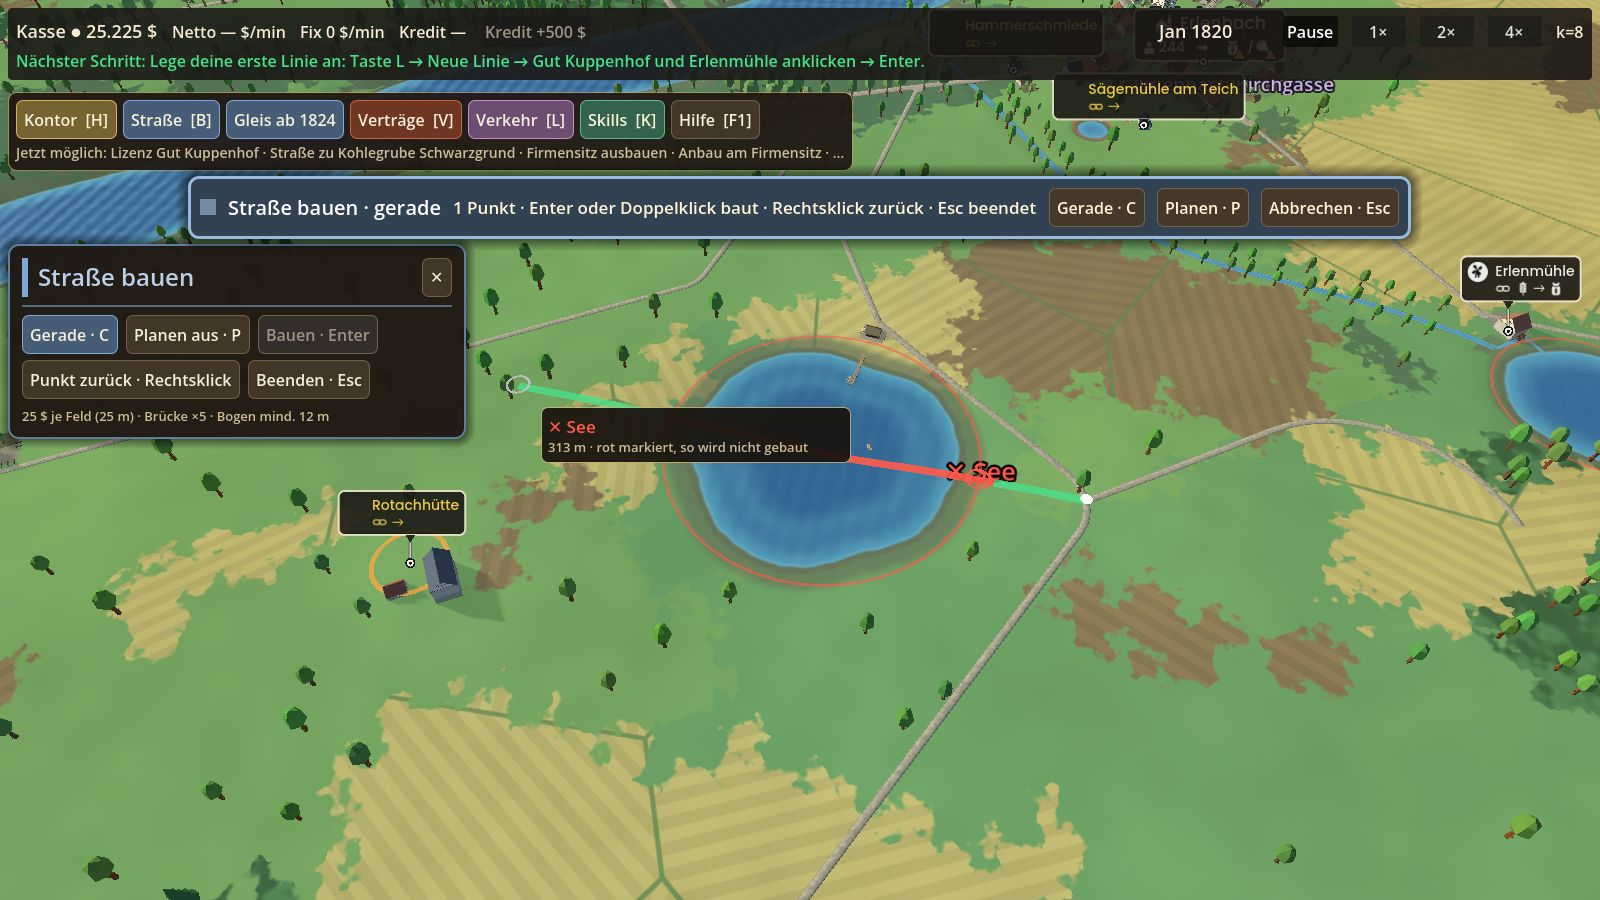
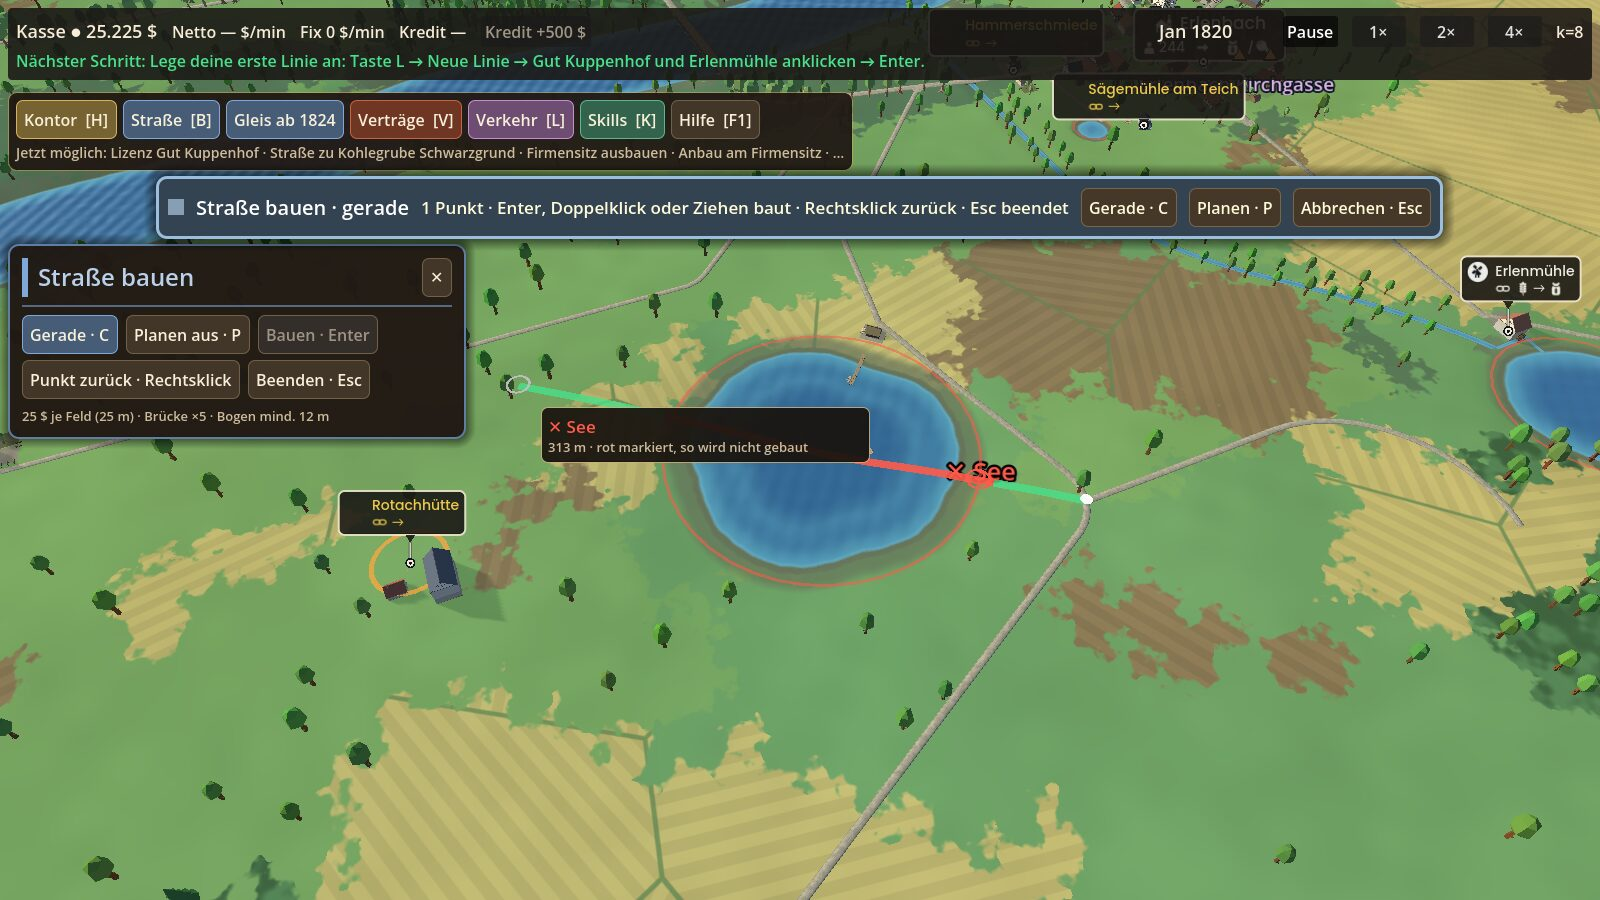
Demo Teil 5 (Tests, Doku, Bilder): Befund-Skript misst das Ziehen, Anleitung und Entscheidungslog
demo_bau_befund.gd: N13 (Ziehen mit der echten Maus: Drücken, 6 Bewegungen,
Loslassen), N13b (kurzer Zug bleibt Punkt-Klick), N13c (Ziehen im Kurvenmodus
= ein tangentialer Bogen), N14 (eine Querung = eine Kreuzung), N12 neu
(Kamera im Baumodus: links zieht, Mitte schiebt, rechts dreht).
demo_ui_test: Bild 31_bau_ziehen mitten im Zug.

Gemessen (xvfb, llvmpipe): Loslassen baut 170 m für 175 $ = Angebot,
Abweichung zur Vorschau 1,00 m; Vorschau mitten im Zug 81 m von 170 m;
Kurvenmodus Radius 131 m, Knick 3,5°, Anschluss 1,7°, Abweichung 0,26 m;
N8 meldet 1 statt 3 Kreuzungen (136 m über das Netz statt 366 m);
26 Knoten im Fangkreis, 1 verbunden; linke Taste schiebt 0,0 m, mittlere 121 m.

Doku: DEMO_ANLEITUNG.md (zwei Wege zum Abschnitt, Kamera im Baumodus),
DEMO_STRASSENBAU_BEFUND.md (neuer Abschnitt „Stand 13.11.“, offene Punkte
nachgezogen), entscheidungslog.md (7 Entscheidungen Teil 5).

Claude-Session: https://claude.ai/code/session_019tr1tmM5HeSpn9hDuFUraU

Changed region(s): [[0.0938, 0.1867, 0.9062, 0.28], [0.5312, 0.4356, 0.5625, 0.5289]]

diff --git a/sprints/s8/umsetzung/DEMO_STRASSENBAU_BEFUND.md b/sprints/s8/umsetzung/DEMO_STRASSENBAU_BEFUND.md
@@ -1,5 +1,31 @@
 # Straßen- und Gleisbau in der Demo: Befund und Umbau
 
+## Stand 13.11. nach Teil 5 (Ziehen, eine Kreuzung je Querung)
+
+Zwei der offenen Punkte von unten sind erledigt. Gemessen wie zuvor über den echten Eingabeweg: `slice/tests/demo_bau_befund.gd`
+unter xvfb bewegt die Maus wirklich, hält die Taste gedrückt und lässt sie los; jede Zahl steht in einer Zeile `NACHHER N12`–`N14`
+dieses Laufs. Dazu headless in der Regression: `demo_ui_test` B10–B14, `demo_sim_test` T5, T5b, T5c.
+
+| Punkt | Stand | Gemessen (NACHHER) |
+|---|---|---|
+| **Ziehen mit gehaltener Maustaste** | **erledigt** | Drücken, 6 Bewegungen, Loslassen mit der echten Maus: Drücken allein ändert nichts (0 Punkte); mitten im Zug läuft die Vorschau mit („81 m · 100 $“ von 170 m), Banner „Ziehen · Loslassen baut“; Loslassen baut 170 m für 175 $ = Angebot, Abweichung zur Vorschau 1,00 m; das Werkzeug bleibt an (1 Punkt am Ende) (N13) |
+| Zug und Klick kommen sich nicht in die Quere | erledigt | Kurzer Zug über 4 px (Schwelle 6 px) bleibt ein Punkt-Klick: 1 Punkt gesetzt, 0 gebaut, Kasse unverändert (N13b) |
+| Ziehen im Kurvenmodus | **Entscheidung** | Ein Zug zieht genau ein Stück: den tangential anschließenden Bogen bis zum Loslasspunkt. Gemessen: Radius 131 m (Minimum 12 m), größter Knick zwischen zwei Punkten 3,5°, Anschlusswinkel am Startknoten 1,7°, gebaut 160 m für 175 $, Abweichung zur Vorschau 0,26 m. Mehrere Bögen in einem Stück brauchen weiter Klick–Klick (N13c) |
+| **Kreuzungen: eine Querung = eine Kreuzung** | **erledigt** | Dieselbe Querung wie in N8 meldet jetzt „1 Kreuzung mit dem Netz verbunden“ statt 3. Vom neuen Ende zum gekreuzten Knoten 136 m über das Netz (Luftlinie 80 m; vor Teil 4: 366 m, mit den drei Verbindungen aus Teil 4: 86 m) (N8). In einer 180-m-Querung liegen 26 vorhandene Knoten im Fangkreis von 7 m; verbunden wird genau einer (N14) |
+| Kamera im Baumodus | **geändert** | Ziehen mit links schiebt die Kamera nicht mehr (0,0 m) und baut aus dem freien Gelände nichts; die mittlere Taste schiebt (121 m), die rechte dreht (1,20 rad) und nimmt ohne Ziehen weiter einen Punkt zurück; WASD und Mausrad unverändert (N12) |
+| Bahnübergang Straße × Gleis | **offen** | nicht gebaut (Begründung im Entscheidungslog) |
+
+**Was das Ziehen kostet:** Die gehaltene linke Taste schob bis Teil 4 die Kamera. Diese Geste ist weg; im Baumodus schiebt die
+mittlere Taste, sonst ist alles wie vorher. Außerhalb des Baumodus und ohne `--demo` ist die Belegung unverändert.
+
+**Nicht gemessen (Teil 5)**
+- Ob Basti mit „ziehen“ das meinte. Das Skript zeigt, dass beide Wege funktionieren, nicht, welcher sich besser anfühlt.
+- Mäuse ohne Mittelklick: WASD und Mausrad bleiben, ausprobiert hat es niemand.
+- Bildrate während des Zuges (llvmpipe unter xvfb, keine echte GPU).
+- Ziehen über die Kartenränder hinaus (Kantenscrollen gibt es nicht).
+
+---
+
 ## Stand 12.11. nach dem Umbau (Teil 4)
 
 Das Bauwerkzeug ist neu (`slice/proto/ui_bau.gd`, Sim: `demo_sim.gd` Teil 4). `slice/tests/demo_bau_befund.gd` spielt jetzt das neue Werkzeug an denselben Punkten durch, wieder über echte Mausbewegung, Mausklicks und Tasten unter xvfb. Jede Zahl stammt aus einer Zeile `NACHHER …` dieses Laufs. Bilder: `demo_shots/bau/n*.jpg` (nachher), `b*.jpg` (vorher).
@@ -20,20 +46,22 @@ Das Bauwerkzeug ist neu (`slice/proto/ui_bau.gd`, Sim: `demo_sim.gd` Teil 4). `s
 | 12 | Vorschau eckig, Bau geglättet | **erledigt** | Gebaute Mittellinie weicht höchstens 0,97 m von der Vorschau ab (gerade) bzw. 0,96 m (Kurve). Kurve: Kreisbogen mit 73 m Radius, größter Knick zwischen zwei Punkten 5,8° (N4, N5) |
 | 13 | Brücke wie Straße | **erledigt** | Eigenes Brückenband über dem Wasser, 4 Pfeiler, Aufschrift „Brücke 79 m“, Schild „260 m · 675 $ · Brücke 79 m“ (N7) |
 
+Bilder zu Teil 5: `demo_shots/bau/n13_ziehen_vorschau.jpg` (mitten im Zug), `n13_ziehen_gebaut.jpg`, `n13_ziehen_kurve.jpg`; `demo_shots/31_bau_ziehen.jpg` aus dem UI-Test.
+
 Neu dazu: **Kurve/gerade** (Taste C), **Planungsmodus** (Taste P; N9: drei Abschnitte geplant, Kasse und Netz unverändert, einer verworfen, zwei per „Plan bauen“ für 250 $ gebaut), **Gleis mit Bogen** (N11: kleinster Radius 80 m bei Minimum 55 m, 707 m für 1.450 $, zwei Bahnhöfe).
 
-**Offen, nicht gemacht**
-- Ziehen mit gehaltener Maustaste (drücken, ziehen, loslassen). Das Werkzeug arbeitet mit Klick, Bewegen, Klick, wie Transport Fever 2. Falls Basti mit „ziehen“ die gehaltene Taste meint, fehlt das.
+**Offen, nicht gemacht** (Stand 12.11.; die ersten zwei Punkte sind mit Teil 5 erledigt, siehe oben)
+- ~~Ziehen mit gehaltener Maustaste (drücken, ziehen, loslassen). Das Werkzeug arbeitet mit Klick, Bewegen, Klick, wie Transport Fever 2.~~ → Teil 5
 - Die Seesperre ist sichtbar, aber nicht kleiner geworden (Befund 5).
-- Kreuzungen entstehen am nächsten vorhandenen Knoten (bis 7 m neben dem Schnittpunkt); die neue Linie wird dorthin gezogen. Läuft eine Trasse dicht neben einer Straße her, wird sie mehrfach verbunden. In N8 meldet eine einzige Querung 3 Kreuzungen.
+- ~~Kreuzungen entstehen am nächsten vorhandenen Knoten (bis 7 m neben dem Schnittpunkt); die neue Linie wird dorthin gezogen. Läuft eine Trasse dicht neben einer Straße her, wird sie mehrfach verbunden. In N8 meldet eine einzige Querung 3 Kreuzungen.~~ → Teil 5
 - Straße und Gleis kreuzen sich ohne Verbindung und ohne Bahnübergang.
 - Kein Abreißen in der Welt (nur Verkauf über Verkehr → Strecken), kein Parallelversatz, keine Tunnel oder Höhenstufen.
 - Trassen laufen weiter durch Häuser, Felder und Bäume.
 
-**Nicht gemessen**
+**Nicht gemessen** (Stand 12.11.)
 - Wie sich das Bauen für einen Menschen anfühlt. Das Skript zeigt, was das Werkzeug tut.
 - Steigung: Die Sim markiert zu steile Stücke rot (Code wie beim See), durchgespielt habe ich das nicht.
-- Vorschau, während die linke Taste gehalten wird (stand vorher still; nicht neu geprüft).
+- ~~Vorschau, während die linke Taste gehalten wird (stand vorher still; nicht neu geprüft).~~ → Teil 5 (läuft jetzt mit, N13)
 - Bildrate: Die Vorschau wird bei jeder Mausbewegung neu gerechnet (etwa 16-mal je Sekunde); auf einer echten GPU nicht gemessen.
 
 ---
@@ -194,7 +222,7 @@ Bilder: `b5_bruecke_vorschau.jpg`, `b5_bruecke_gebaut.jpg`
 
 ## Was funktioniert
 
-- **Kamera beim Bauen (B7):** Ziehen mit der linken Taste (140 px) schiebt die Kamera um 73 m und setzt keinen Punkt (2 → 2). Mausrad zoomt (432 → 491 m). Die Taste D schiebt. Der Baumodus bleibt an, die Vorschau folgt der Maus danach wieder. Einschränkung: Solange die linke Taste gehalten wird, steht die Vorschau still.
+- **Kamera beim Bauen (B7):** Ziehen mit der linken Taste (140 px) schiebt die Kamera um 73 m und setzt keinen Punkt (2 → 2). Mausrad zoomt (432 → 491 m). Die Taste D schiebt. Der Baumodus bleibt an, die Vorschau folgt der Maus danach wieder. Einschränkung: Solange die linke Taste gehalten wird, steht die Vorschau still. *(Mit Teil 5 gilt das nicht mehr: Im Baumodus zieht die linke Taste die Trasse, geschoben wird mit der mittleren Taste, WASD und dem Mausrad.)*
 - **Start auf der Straße (B1):** praktisch überall möglich, siehe Befund 3.
 - **Gleis (B8):** Taste G, 16 Ringe an Betrieben und Orten. Der Klick auf die Kohlegrube rastet 12 m neben dem Klick ein und legt einen Bahnhof an. Gerade zur Hütte: 696 m für 1.400 $, zwei Bahnhöfe.
 - **Fehlertexte:** nennen Ursache und nächsten Schritt.

diff --git a/sprints/s8/umsetzung/DEMO_ANLEITUNG.md b/sprints/s8/umsetzung/DEMO_ANLEITUNG.md
@@ -32,7 +32,7 @@ Neu seit dem 11.11.: Linien und Fahrzeuge laufen wie in Transport Fever 2. **Lin
 6. **Lizenz:** Ohne Lizenz lädt am Betrieb niemand. Das Linienfenster warnt („Lizenz fehlt“) und hat den Kaufknopf gleich daneben. Die erste Lizenz im Radius des Firmensitzes ist gratis.
 7. Dasselbe für **Erlenmühle → Erlenbach**: zweite Linie, ein Fuhrwerk im Fuhrhof kaufen, zuweisen. Jetzt kommt Mehl in Erlenbach an, das erste Geld.
 8. Nach etwa 90 Sekunden kommt das erste Vertragsangebot: Taste **V**, annehmen. Jeder Meilenstein gibt einen Skillpunkt: Taste **K**.
-9. Taste **B**: Straße zum Forsthaus Rotwald. Startpunkt am Ende des Fischerpfads (am See), ein Zwischenpunkt östlich um den See herum, Klick auf den Ring am Forsthaus, dann **Enter**. Wie das Bauen seit dem 12.11. geht, steht unten in „Bauen“.
+9. Taste **B**: Straße zum Forsthaus Rotwald. Entweder vom Ende des Fischerpfads (am See) mit gehaltener linker Taste bis zum Forsthaus **ziehen** und loslassen, oder Startpunkt klicken, einen Zwischenpunkt östlich um den See herum, Klick auf den Ring am Forsthaus, dann **Enter**. Beides steht unten in „Bauen“.
 10. Stadtverkehr: **Erlenbach** anklicken → „Personenlinie hier beginnen“ → Erlenbach Ostend und Erlenbach Kirchgasse anklicken → Enter. Im Fuhrhof eine Stadtkutsche kaufen und zuweisen.
 
 **„Nächster Schritt“** oben sagt dir, was im Ablauf gerade offen ist (Linie fehlt, Fahrzeuge stehen im Depot, Lizenz fehlt), danach den nächsten Meilenstein. Die Zeile **„Jetzt möglich“** zeigt, was bezahlbar ist.
@@ -43,15 +43,24 @@ Neu seit dem 11.11.: Linien und Fahrzeuge laufen wie in Transport Fever 2. **Lin
 - Fährst du mit der Maus über etwas Anklickbares, bekommt es einen hellen Ring und der Mauszeiger wird zur Hand.
 - Ein neuer Modus beendet den alten. Beispiel: Taste B während du Halte anklickst, wechselt sichtbar in den Straßenbau.
 
-### Bauen (neu seit dem 12.11.)
+### Bauen (neu seit dem 12.11., Ziehen seit dem 13.11.)
+Es gibt **zwei Wege** zum selben Abschnitt. Beide sind gleichwertig, du kannst sie mischen.
+
+**Weg 1 – ziehen (wie in Cities: Skylines):** linke Taste auf dem Startpunkt **drücken**, mit gehaltener Taste **ziehen**, **loslassen** baut. Während des Zuges läuft die Vorschau mit; am Schild stehen Länge, Preis und Fehler. Ein Zug zieht genau ein Stück: im Kurvenmodus den Bogen, der tangential am Netz anschließt, sonst die Gerade. Im Planungsmodus legt das Loslassen den Abschnitt als Blaupause ab.
+
+**Weg 2 – klicken (wie in Transport Fever 2):** Klicks setzen Punkte, **Enter** oder ein zweiter Klick auf den letzten Punkt (Doppelklick) baut. So baust du mehrere Bögen in einem Stück. Ein Zug am Ende einer Klickfolge schließt sie ab.
+
+Ein kurzer Klick (unter 6 px Mausweg) ist immer ein Punkt-Klick, nie ein Zug.
+
 - **Vor dem ersten Klick** zeigt eine Marke unter der Maus, woran der Start einrastet: voller weißer Punkt an Straße oder Gleis, goldener am Betrieb, hohler grauer Ring im freien Gelände (dort geht kein Start). Das Schild an der Maus sagt es in Worten.
 - **Nach dem ersten Klick** liegt die Trasse bis zur Maus als Band da. Am Schild stehen Länge und Preis, bei einer Brücke ihre Länge.
-- **Eine Regel:** Klick setzt einen Punkt, mehr nie. Gebaut wird mit **Enter** oder mit einem zweiten Klick auf den letzten Punkt (Doppelklick). **Rechtsklick** nimmt den letzten Punkt zurück, ohne Punkt beendet er das Werkzeug. **Esc** beendet.
+- **Rechtsklick** nimmt den letzten Punkt zurück, ohne Punkt beendet er das Werkzeug. **Esc** beendet.
+- **Kamera im Baumodus:** Die gehaltene linke Taste gehört jetzt der Trasse. Geschoben wird mit **WASD**, den Pfeiltasten oder der **mittleren Maustaste**, gezoomt mit dem **Mausrad**, gedreht mit **Q/E** oder gehaltener rechter Taste.
 - **Nach dem Bau bleibt das Werkzeug an.** Das Ende ist der neue Start, die Richtung läuft weiter.
 - **C: Kurve oder gerade.** Kurve: Jedes Stück schließt im Bogen an das vorige an. Gerade: gerade Stücke, die Ecken werden ausgerundet. Was du siehst, wird gebaut.
 - **Fehler** sind nur an der Stelle rot, mit dem Grund daneben („See“, „Bogen zu eng“, „zu steil“). Die rote Linie um Seen ist die Sperrzone.
 - **Brücken** sind in der Vorschau orange und haben Pfeiler. Sie kosten das Fünffache.
-- **Kreuzt** die neue Straße eine bestehende, werden beide dort verbunden (weiße Ringe in der Vorschau).
+- **Kreuzt** die neue Straße eine bestehende, werden beide dort verbunden (weiße Ringe in der Vorschau). Je Querung entsteht genau **eine** Kreuzung.
 - **P: Planen.** Abschnitte werden als blaue Blaupause abgelegt, es fließt kein Geld. Links steht die Liste mit der Summe; ✕ verwirft einen Abschnitt, der Haken wählt ihn für „Auswahl bauen“. „Plan bauen“ baut alles, wenn das Geld reicht. Der Plan bleibt liegen, auch wenn du das Werkzeug beendest.
 
 ### Später
@@ -64,7 +73,7 @@ Neu seit dem 11.11.: Linien und Fahrzeuge laufen wie in Transport Fever 2. **Lin
 | Taste | Wirkung |
 |---|---|
 | H | Firmensitz platzieren, danach Panel Firmensitz (Ausbau, Anbauten, Umzug) |
-| B / G | Straße / Gleis bauen (Gleis ab 1824). Klick setzt Punkt, Enter oder Doppelklick baut, Rechtsklick oder Entf nimmt einen Punkt zurück, Esc beendet |
+| B / G | Straße / Gleis bauen (Gleis ab 1824). Ziehen mit gehaltener linker Taste baut beim Loslassen; oder Klick setzt Punkt, Enter bzw. Doppelklick baut. Rechtsklick oder Entf nimmt einen Punkt zurück, Esc beendet. Kamera: WASD, Mausrad, mittlere Taste |
 | C / P | im Bauwerkzeug: Kurve oder gerade / Planen an oder aus |
 | V / K | Verträge / Skilltree |
 | L | Fenster Verkehr, Reiter Linien (anlegen, Halte, Ladeauftrag, Fahrzeuge der Linie) |
@@ -94,7 +103,7 @@ Die Jahre sind für die Demo vorgezogen (Zeitraffer), historisch stimmen sie nic
 - **Banner und Ring:** Wusstest du jederzeit, ob das Spiel auf einen Klick wartet und was ausgewählt ist? Gab es einen Moment, in dem doch etwas „hing“?
 - **Mehrfachauswahl:** Klick und Umschalt+Klick wie erwartet? Fehlt Strg+Klick oder ein Rahmen mit der Maus?
 - **Depots:** Ist klar, warum ein Zug einen Lokschuppen braucht und wo er stehen muss?
-- **Bauen:** Fühlt sich das Ziehen jetzt richtig an (Marke, Band, Schild an der Maus)? Sind die Kurven so, wie du sie erwartest, oder fehlt freies Ziehen mit gehaltener Maustaste? Hast du den Planungsmodus benutzt, und wofür?
+- **Bauen:** Fühlt sich das Ziehen mit gehaltener Maustaste jetzt richtig an (Schwelle, Vorschau während des Zuges, Loslassen)? Benutzt du eher Ziehen oder Klicken? Stört es, dass die Kamera im Baumodus nur noch mit WASD und mittlerer Taste schiebt? Sind die Kurven so, wie du sie erwartest? Hast du den Planungsmodus benutzt, und wofür?
 - Ab welcher Minute wusstest du nicht mehr, was du tun sollst (falls überhaupt)?
 - Firmensitz, Skills, Verträge: echte Entscheidung oder Klickarbeit?
 - Tempo k = 8: wirkt das Fahrtempo richtig, zu langsam, zu schnell?

diff --git a/sprints/s8/umsetzung/entscheidungslog.md b/sprints/s8/umsetzung/entscheidungslog.md
@@ -80,3 +80,17 @@ Auslöser: Bastis Feedback („Feedback beim Ziehen seltsam, keine richtigen Kur
 | 12.11. | **Bau-Karte links unter der Werkzeugleiste, Zahlen an der Maus** | Befund 8, 9: Die Karte lag in der Bildmitte unten und fing Klicks ab | Aylin |
 | 12.11. | **Der Bot baut über das neue Werkzeug** (`trasse_bauen`, gerade); `bauen()`/`bau_angebot()` von Teil 1 bleiben für die alten Tests | sonst wäre der neue Baupfad in der 30-Minuten-Messung nicht enthalten | Daniel |
 | 12.11. | **Nicht gemacht:** Ziehen mit gehaltener Maustaste, Parallelversatz, Abreißen in der Welt, Höhenstufen/Tunnel, Bahnübergänge (Straße kreuzt Gleis ohne Verbindung), kleinere Seesperre | nicht „billig“ im Sinne des Auftrags oder eigener Eingriff in Sim/Gelände; im Befund als offen eingetragen | Basti |
+
+## Demo-Sprint Teil 5 (13.11.2026, Lead): Ziehen mit gehaltener Maustaste, eine Kreuzung je Querung
+
+Auslöser: Bastis Satz zum Bauen („das Feedback beim Straßenbau ist recht seltsam, z.B. wenn ich anfange eine Straße zu ‚ziehen‘“) und die zwei offenen Punkte aus dem Befund (Ziehen, Mehrfachkreuzung N8).
+
+| Datum | Entscheidung | Grund | Revidierbar bis/durch |
+|---|---|---|---|
+| 13.11. | **Zwei gleichwertige Wege zum Abschnitt:** Ziehen (drücken, ziehen, loslassen baut) und Klicken (Klick setzt Punkte, Enter/Doppelklick baut). Die Schwelle trennt sie: unter 6 px Mausweg bleibt die Geste ein Punkt-Klick, das ist dieselbe Schwelle, mit der `prototyp_welt.gd` seit AT-07 Klick von Kameraziehen trennt. Beide Wege dürfen gemischt werden (Klicks setzen, ein Zug am Ende schließt ab) | Bastis Wort „ziehen“ ließ sich nicht eindeutig lesen; statt zu raten gibt es beides. Eine gemeinsame Schwelle heißt: keine zweite Regel, die man lernen muss | Basti |
+| 13.11. | **Im Baumodus gehört die gehaltene linke Taste dem Bauwerkzeug, nicht der Kamera.** Geschoben wird dort mit WASD/Pfeiltasten, Mausrad und **mittlerer** Taste; die rechte Taste dreht weiter und nimmt ohne Ziehen einen Punkt zurück. Außerhalb des Baumodus und ohne `--demo` ist die Belegung unverändert | Zwei Bedeutungen für dieselbe Geste gehen nicht. Die mittlere Taste ist in Aufbauspielen die üblichste zweite Schiebegeste; Tastatur und Mausrad bleiben als Ausweg für Mäuse ohne Mittelklick | Aylin/Basti |
+| 13.11. | **Ein Zug zieht genau ein Stück.** Im Kurvenmodus ist das der tangential anschließende Bogen bis zum Loslasspunkt (ein Freiheitsgrad: der Endpunkt). Ein Bogen mit frei gewählter Krümmung braucht zwei Stützpunkte und damit Klick–Klick | Mit Drücken und Loslassen gibt es nur einen Punkt zu steuern; einen zweiten Freiheitsgrad (Krümmung) in dieselbe Geste zu legen – etwa über den Mausweg – wäre nicht vorhersagbar und ließe die Vorschau beim Ziehen springen. Gemessen: Zug im Kurvenmodus ergibt einen sauberen Bogen über dem Mindestradius (N13c) | Lena/Basti |
+| 13.11. | **Ein Fehlschlag beim Loslassen verwirft den Zug** (die Punkte, die der Zug gesetzt hat, werden zurückgenommen); der Fehlertext bleibt stehen | sonst liegen nach jedem missglückten Zug Punkte im Werkzeug, die der Spieler nicht gesetzt zu haben glaubt | Aylin |
+| 13.11. | **Während des Zuges läuft die Vorschau mit.** Die Sperre „gehaltene Taste friert die Vorschau ein“ (BUG-1-Muster in `ui_welt.gd`, `_taste_unten`) gilt im Zug nicht, für Panel-Neuaufbauten weiter | Der Befund hatte „Vorschau steht still, solange die linke Taste gehalten wird“ als Einschränkung notiert – genau das ist beim Ziehen der Punkt | Felix |
+| 13.11. | **Eine Querung = eine Kreuzung:** Treffer am vorhandenen Netz, die entlang der neuen Mittellinie weniger als 50 m auseinanderliegen, gelten als dieselbe Querung; verbunden wird daraus nur der nächstgelegene Knoten (`KREUZ_FANG_M` 7 m, `KREUZ_LUECKE_M` 50 m) | Befund N8: eine einzige Querung meldete „3 Kreuzungen“, weil das Netz mit ≤ 22 m Knotenabstand dicht besetzt ist (gemessen: 7 Knoten im Fangkreis). 50 m liegt über dem Knotenabstand und unter dem Abstand zweier echter Querungen (T5c: 349 m). Nebenwirkung des alten Stands – eine dicht parallel laufende Trasse wurde mehrfach verbunden – fällt damit weg (ein zusammenhängender Lauf = eine Verbindung) | Felix |
+| 13.11. | **Nicht gemacht:** Bahnübergang, wo Straße und Gleis sich kreuzen (Punkt 3 des Auftrags, „nur wenn Zeit bleibt“); dazu weiter offen: Parallelversatz, Abreißen in der Welt, Höhenstufen/Tunnel, kleinere Seesperre | Straße und Gleis sind getrennte Knotenmengen (`gleis_knoten`); ein Übergang braucht eine eigene Bauwerksart, eine Sperrlogik in der Sim (wer hat Vorfahrt) und Darstellung – kein Rest-Zeit-Thema. Im Befund als offen eingetragen | Basti |

diff --git a/sprints/s8/umsetzung/DEMO.md b/sprints/s8/umsetzung/DEMO.md
@@ -2,7 +2,7 @@
 
 Branch `s8-demo` (gemergt nach `s8`). Start: `play_demo.bat` (Windows), `tools/play_demo.sh`, oder Startmenü „Demo spielen“ (Taste D). Anleitung: `DEMO_ANLEITUNG.md`. Plan: `DEMO_PLAN.md`.
 
-## 00 Teil 4 (12.11.): Straßen- und Gleisbau neu
+## 0a Teil 4 (12.11.): Straßen- und Gleisbau neu
 
 Nach Bastis Feedback („Feedback beim Ziehen seltsam, keine richtigen Kurven, Planungsmodus wäre gut“). Vorbild Transport Fever 2 / Cities: Skylines. Nur Demo-Modus. Einzelheiten und Vorher/Nachher je Befund: `DEMO_STRASSENBAU_BEFUND.md`.
 
@@ -30,7 +30,7 @@ Nach Bastis Feedback („Feedback beim Ziehen seltsam, keine richtigen Kurven, P
 
 **Was die Tests über welchen Weg prüfen:** `demo_bau_befund.gd` (xvfb) fährt die Maus wirklich (Bewegung, Klick links und rechts, Tasten). `demo_ui_test.gd` (headless, läuft in der Regression) schickt Klicks und Tasten als Ereignisse; die Mausposition über der Welt setzt es direkt, weil es headless keinen Mauszeiger gibt.
 
-**Nicht gemacht:** Ziehen mit gehaltener Maustaste, kleinere Seesperre, Bahnübergänge, Abreißen in der Welt, Parallelversatz, Tunnel. **Nicht geprüft:** Spielgefühl, Steigungsfehler im Durchspiel, Bildrate der Vorschau auf echter GPU, Windows.
+**Nicht gemacht (Stand 12.11.):** Ziehen mit gehaltener Maustaste (mit Teil 5 erledigt), kleinere Seesperre, Bahnübergänge, Abreißen in der Welt, Parallelversatz, Tunnel. **Nicht geprüft:** Spielgefühl, Steigungsfehler im Durchspiel, Bildrate der Vorschau auf echter GPU, Windows.
 
 Bilder: `demo_shots/28` Plan · `29` Kurve · `30` Fehler lokal · `07` Straße mit Schild · `bau/n1` bis `n11` (nachher), `bau/b*` (vorher).
 
